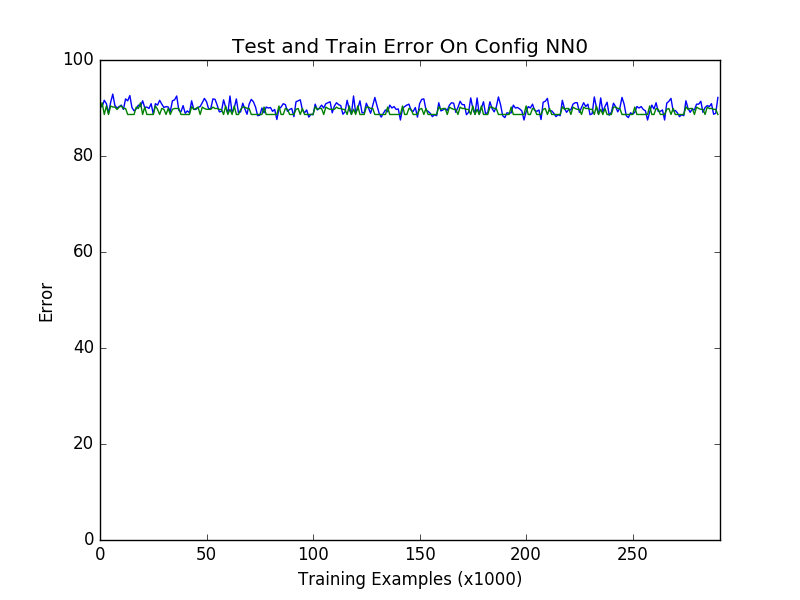
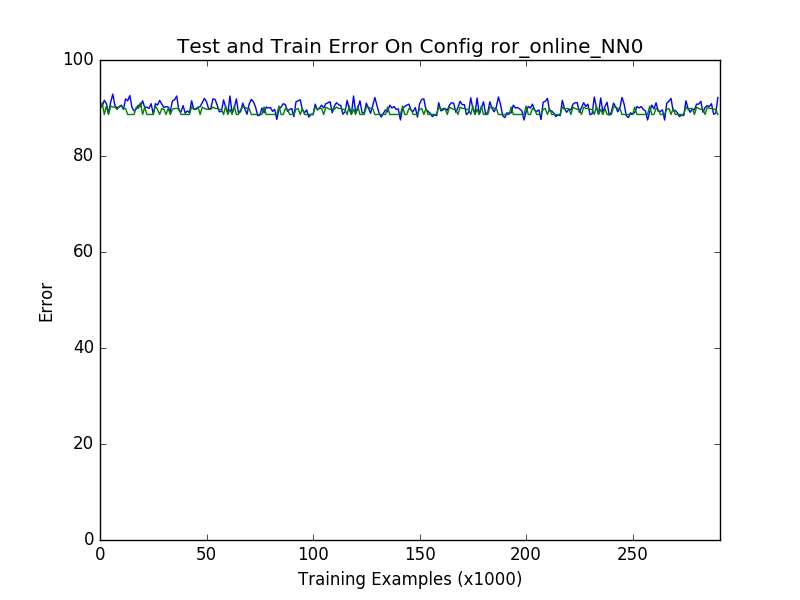
images working for traintest

Changed region(s): [[0.2188, 0.06, 0.8125, 0.09]]

diff --git a/testplot.py b/testplot.py
@@ -7,10 +7,10 @@ parser = argparse.ArgumentParser()
 parser.add_argument('--filename', type=str, default = '-1')
 args = parser.parse_args()
 infilename = args.filename
-output_filename  = infilename[:-7] 
+output_filename  = infilename[11:-7] 
 
-training_error_file = 'ttpickle/' + infilename
-test_error_file = 'ttpickle/test' + infilename[5:]
+training_error_file = infilename
+test_error_file = 'ttpickle/test' + infilename[16:]
 title = 'Test and Train Error On Config '+ infilename[19:-7]
 
 with open(training_error_file,'r') as f:
